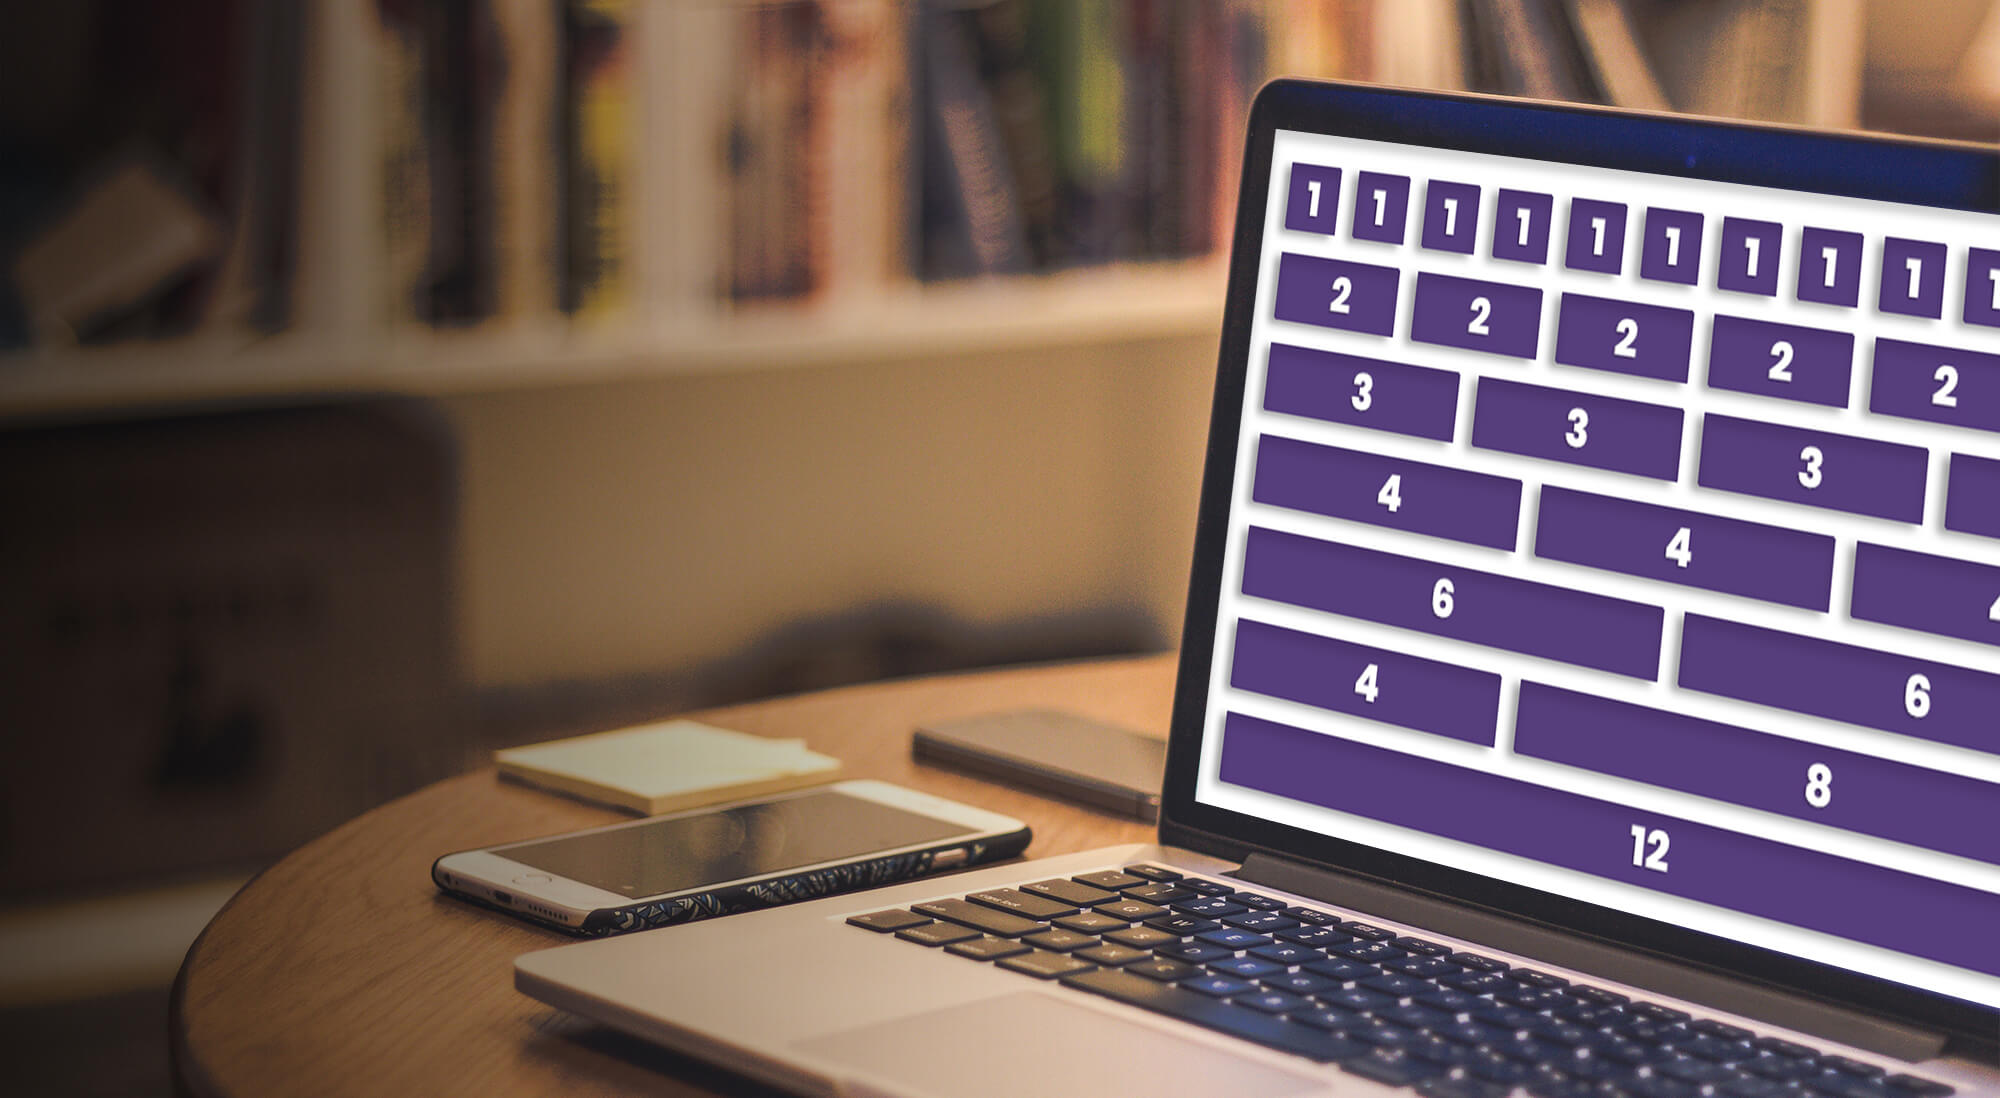
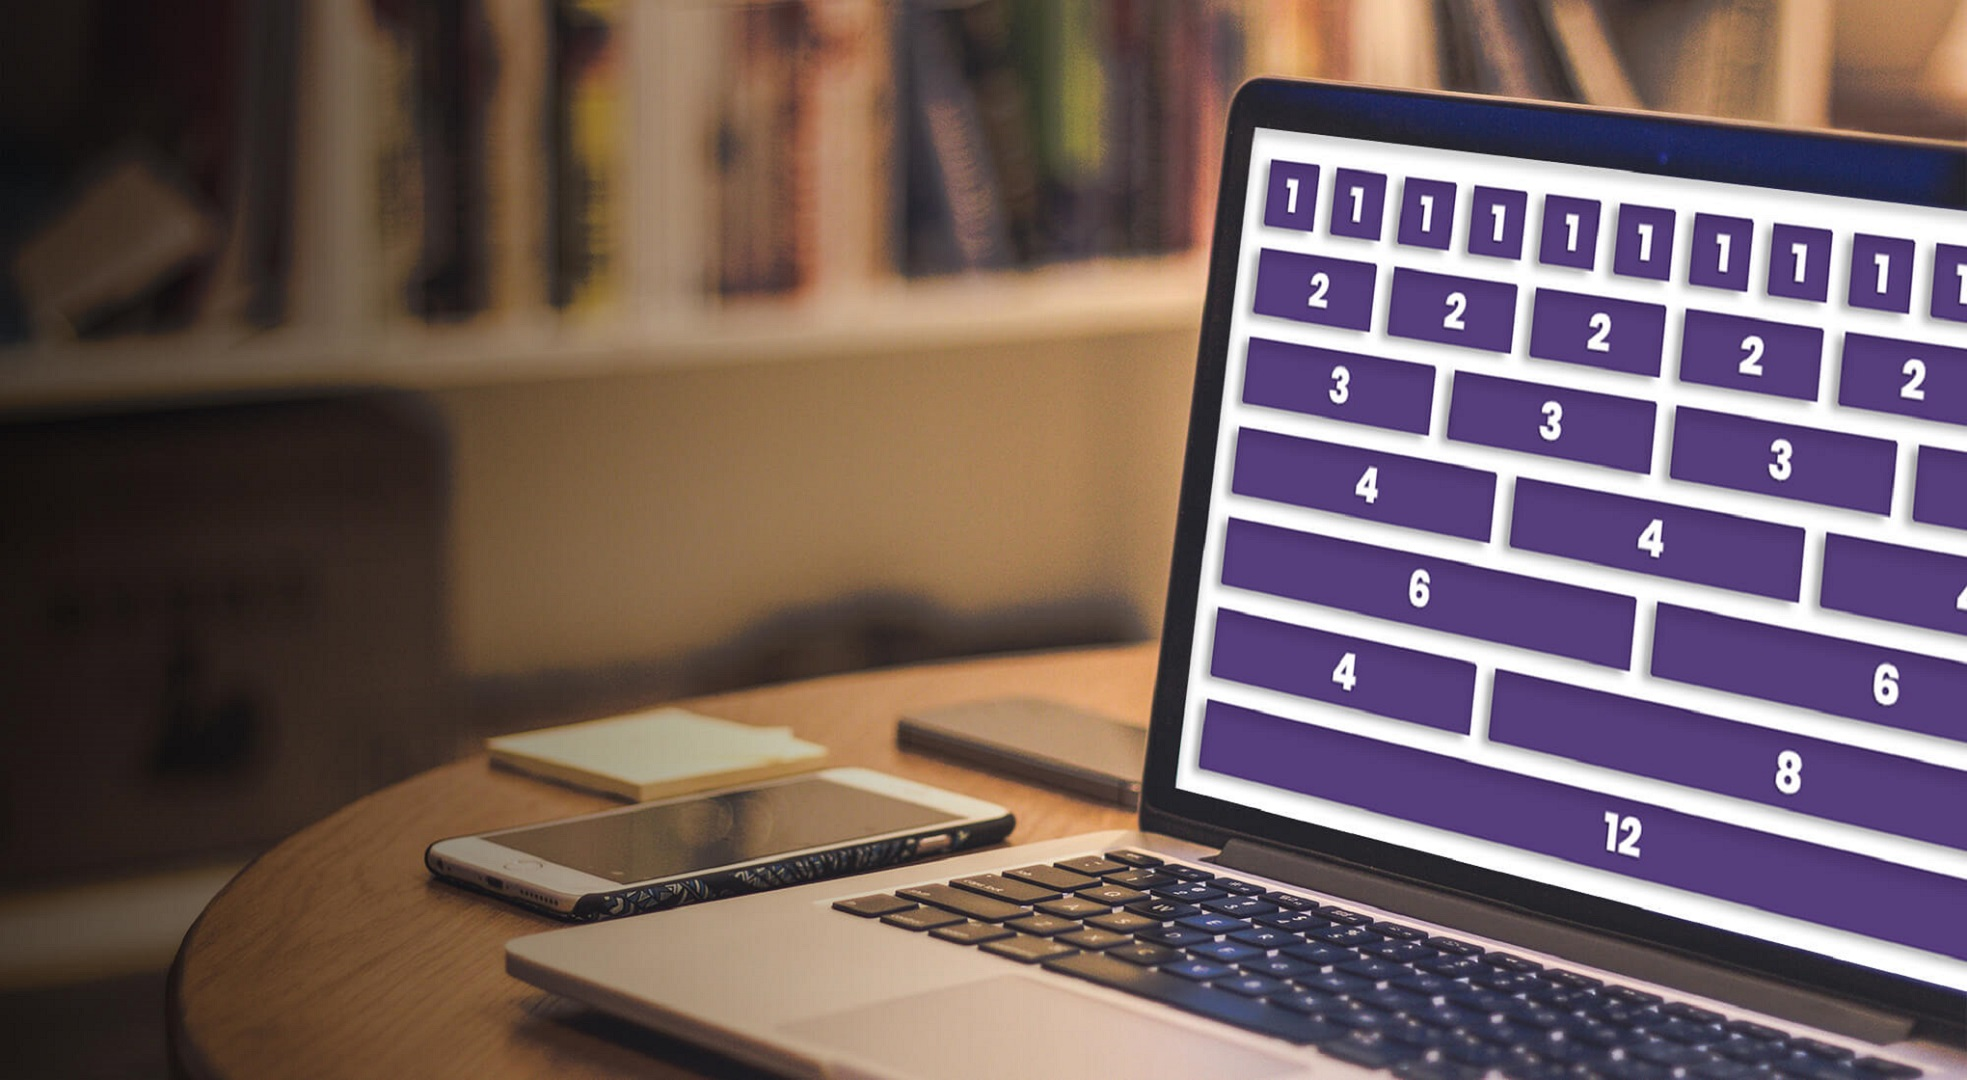
Add files via upload

Changed region(s): [[0.6512, 0.825, 0.6823, 0.8556]]

diff --git a/index.html b/index.html
@@ -47,7 +47,7 @@
 			<div class="carousel-inner">
 
 				<div class="carousel-item active">
-					<img src="img/carousel/carousel1.jpg" class="w-100" alt="">
+					<img src="img/carousel/carousel3.jpg" class="w-100" alt="">
 					<div class="carousel-caption">
 						<div class="container">
 							<div class="row justify-content-end">
@@ -187,14 +187,14 @@
 
 		<div class="container mt-5">
 			<div class="row py-4">
-				<div class="col-lg-5 mb-4 my-lg-auto">
-					<h1 class="font-weight-bold mb-3">Veja direto no Behance</h1>
+				<div class="col-lg-4 mb-4 my-lg-auto">
+					<h1 class="font-weight-bold mb-3">Veja mais no Behance</h1>
 					<p class="mb-4">Lorem ipsum dolor sit amet consectetur adipisicing elit. Eligendi laborum nihil itaque mollitia? Dolores rem magni eveniet, alias cum, und
 						e tempore facilis quidem saepe impedit ut. Suscipit excepturi assumenda asperiores!</p>
-						<a href="https://www.behance.net/macieldsgn" class="btn btn-outline-dark btn-lg">Entrar no Behance</a>
+						<a href="https://www.behance.net/macieldsgn" class="btn btn-outline-dark btn-lg justify-content-center">Entrar no Behance</a>
 				</div>
-
-				<div class="col-lg-7" style="text-align: center;"><img src="img/tablet.png" alt="" class="w-80"></div>
+	
+				<div class="col-lg-8"  style="text-align: center;"><img src="img/tablet.png" alt="" class="w-50"></div>
 			</div>
 		</div>
 

diff --git a/css/style.css b/css/style.css
@@ -52,7 +52,7 @@ html, body {
 
 .nav-link.active,
 .nav-link:hover {
-  color: #6271a1!important;
+  color: #2951d3!important;
 }
 
 
